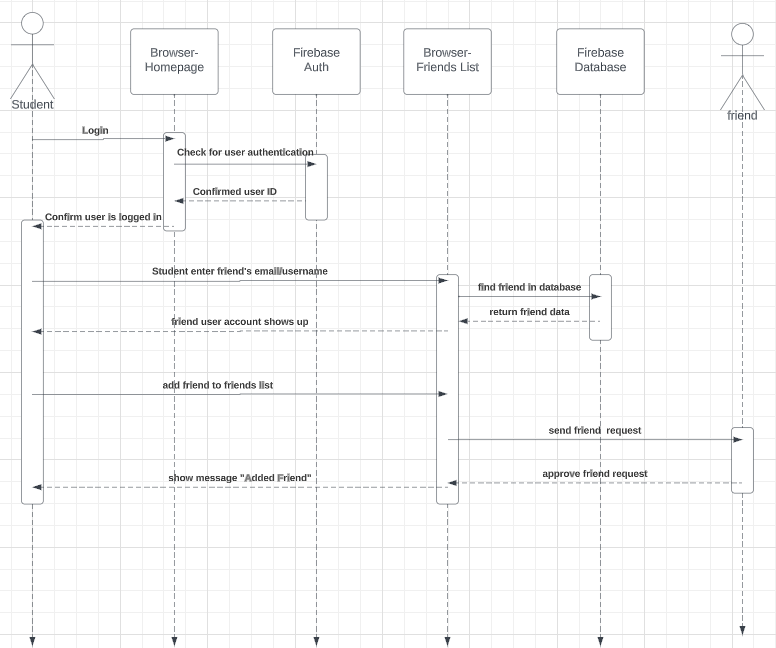
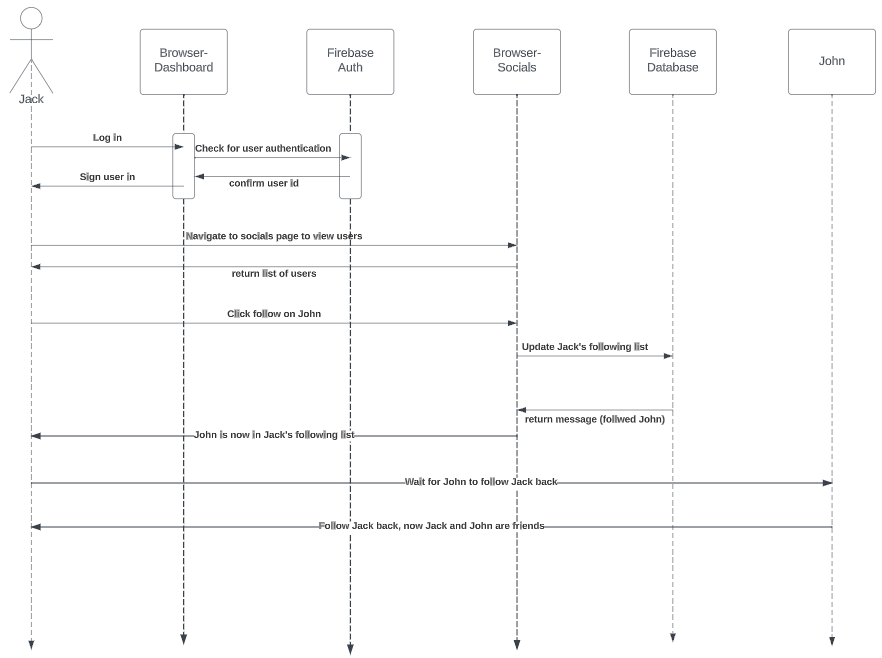
Changed use case 5-8 descriptions and diagrams

diff --git a/documentation/docs/system-architecture/design.md b/documentation/docs/system-architecture/design.md
@@ -88,21 +88,22 @@ A user is about to take a naturalization test but doesn't have time to study for
    A user wants to take a quiz created by themselves or a friend.
 
 1. User logs in to StudySync.
-2. User then navigate to the "Quiz" section.
-3. At the "Quiz" section, user has a wide range of quizzes either created by themselves or friends.
+2. User then navigate to the mySets section.
+3. At the mySets section, user has a wide range of quizzes either created by themselves or shared by friends.
 4. Then the user completes the quiz and submits their answers.
 5. The system will then calculate and the display user's score on the leaderboard.
-![](../requirements/static/UseCase5.png)
+![](../requirements/static/usecase5.png)
 
 
 ## Use case 6
    A user wants to add friends on StudySync.
 
 1. User will have to log in to their own account.
-2. Then navigate to the "Add Friend" section.
-3. User enters the friend's email or username.
-4. Once the friend's name popup, user recognizes their friends then clicks "add as friend".
-5. The friend receives the friend request and is able to accept or reject it.
+2. Then navigate to the socials section.
+3. User searches for friend's friend.
+4. Once the friend's name popup, user recognizes their friends then clicks follow.
+5. The friend receives the follow notification and follows the user back.
+6. They are now friends.
 ![](../requirements/static/UseCase6.png)
 
 
@@ -112,9 +113,10 @@ A user is about to take a naturalization test but doesn't have time to study for
 1. User is taking a quiz but then realizes he/she wants to take a quick coffee break.
 2. User clicks "Save&Exit" button in order for the quiz to be saved and quit.
 3. The system saves the user's progress.
-4. After the break, the user logs in and goes to the "Quiz" section to resume the paused quiz.
-5. User chooses to resume the quiz from where they left off.
-<img width="953" alt="Updated #7" src="https://github.com/Capstone-Projects-2023-Fall/project-studysync/assets/70645481/d6c07c85-44c7-4b3d-aa4d-72f91852bf70" />
+4. After the break, the user goes to the mySets section and pick the quiz to resume.
+5. User finishes the quiz and saves its data to the database.
+![](../requirements/static/usecase7.png)
+
 
 
 
@@ -122,11 +124,11 @@ A user is about to take a naturalization test but doesn't have time to study for
   A user finds out some flashcards need to be updated in order to improve accuracy.
 
 1. User logs in to StudySynce as usual.
-2. Then user has to go to their created flashcards.
-3. User finds out which flashcards need to be updated.
-4. User makes some changes to the flashcard definition and details.
+2. Then user goes to MySets to view owned/shared flashcards.
+3. User finds out which flashcard set need to be updated.
+4. User selects flashcard set and makes changes to the flashcard definition and details.
 5. User saves changes and then flashcards are updated and ready to be learned.
-<img width="790" alt="Updated #8" src="https://github.com/Capstone-Projects-2023-Fall/project-studysync/assets/70645481/b3ccb4f4-9259-4516-b2d4-1c1ac8727916" />
+![](../requirements/static/usecase8.png)
 
 
 
